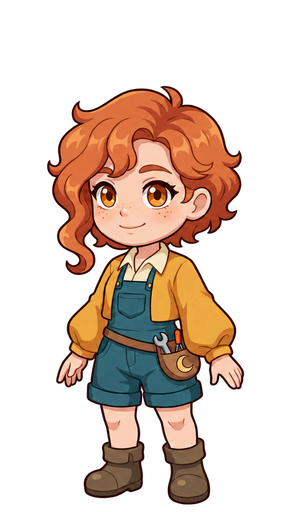
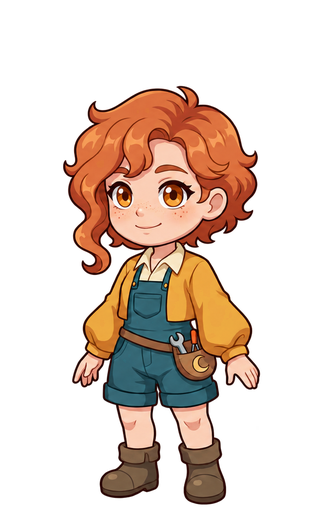
feat(luma): celebrate con le pose intere e fotogramma più largo
Le quattro pose B-celebrate di Codex alla scala della testa originale,
con 17 fotogrammi fra carica, salto, atterraggio e pugno. Il fotogramma
passa a 320x512 perché il salto a braccia aperte entri intero; gli altri
stati sono solo centrati. Pacchetto: 141 celle.

diff --git a/characters-src/People/luma/build.py b/characters-src/People/luma/build.py
@@ -33,10 +33,12 @@ OPEN_X, CLOSED_X = 250, 949
 # Spazio di lavoro in pixel sorgente: margini per salti ed effetti sopra e ai
 # lati. Alla fine viene centrato in FRAMED e ridotto a 8/17, il fotogramma più
 # grande ammesso (512 di altezza); con pixelRatio 7 Luma resta alta come prima.
+# FRAMED è più largo della tela per il salto di celebrate, a braccia e gambe
+# aperte, che si compone direttamente lì (_jump_frame).
 CANVAS = (600, 1080)
 OFFSET = (60, 138)
-FRAMED = (612, 1088)
-TILE = (288, 512)
+FRAMED = (680, 1088)
+TILE = (320, 512)
 COLS = 10
 
 # Punti di riferimento nello spazio di lavoro.
@@ -84,7 +86,7 @@ class Pose:
     mouth: str = ""       # "" (sorriso originale) | small | mid | open | worried | una bocca di EXPRESSIONS
     arm: str = ""          # braccio sinistro: "" | lift (si scosta) | wave0..wave2 (alzato, mano inclinata)
     arm_angle: float = 0.0  # gradi attorno alla spalla
-    hand: str = ""         # braccio destro: "" | chin (mano al mento) | book0..book2 (le due braccia col libro) | pad0..pad2 (blocco e matita) | tool0..tool3 (meccanismo e chiave) | lens0..lens1 (lente) | cheeks0..cheeks1 (mani alle guance)
+    hand: str = ""         # braccio destro: "" | chin (mano al mento) | book0..book2 (le due braccia col libro) | pad0..pad2 (blocco e matita) | tool0..tool3 (meccanismo e chiave) | lens0..lens1 (lente) | cheeks0..cheeks1 (mani alle guance) | jump0..jump3 (pose intere di celebrate)
     fx: tuple = ()        # effetti disegnati sopra: tuple di tuple
 
 
@@ -1028,7 +1030,39 @@ def _effect(img: Image.Image, spec: tuple) -> None:
 
 # ---------------------------------------------------------------- resa
 
+# Festa (celebrate): le quattro pose intere di B-celebrate (carica, salto,
+# atterraggio, pugno con occhiolino), alla scala che porta la loro testa sulla
+# testa originale, coi piedi sulla linea. I fotogrammi intermedi le schiacciano o
+# le allungano ancorate ai piedi (squash) e le alzano (dy). Il salto è più largo
+# della tela: si compone direttamente nel fotogramma.
+JUMP_CELLS = (((99, 102, 450, 721), 1.236, 31), ((531, 12, 1058, 630), 1.22, -86),   # salto: 2,5% più piccolo e centrato, entra nel fotogramma
+              ((1127, 110, 1574, 723), 1.248, -2), ((1637, 33, 2067, 728), 1.2375, -37))
+JUMP_BASE = 927   # piedi nel ritaglio
+
+
+def _jump_frame(p: Pose) -> Image.Image:
+    key = ("jump", p.hand)
+    if key not in _CACHE:
+        box, scale, x = JUMP_CELLS[int(p.hand[-1])]
+        c = Image.open(HERE / "disegni" / "B-celebrate" / "celebrate-4-celle-trasparente.png").convert("RGBA").crop(box)
+        _CACHE[key] = (c.convert("RGBa").resize((round(c.width * scale), round(c.height * scale)), Image.LANCZOS), x)
+    img, x = _CACHE[key]
+    w, h = round(img.width / p.squash ** 0.3), round(img.height * p.squash)   # si allarga meno di quanto si schiaccia
+    if (w, h) != img.size:
+        img = img.resize((w, h), Image.LANCZOS)
+    left, top = (FRAMED[0] - CANVAS[0]) // 2, FRAMED[1] - CANVAS[1]    # dove cade la tela nel fotogramma
+    cx = left + OFFSET[0] + x + _CACHE[key][0].width / 2   # centro della posa a misura piena
+    framed = Image.new("RGBa", FRAMED, (0, 0, 0, 0))
+    framed.paste(img, (round(cx - w / 2), round(top + OFFSET[1] + JUMP_BASE + p.dy - h)), img)
+    framed = framed.convert("RGBA")
+    for kind, fx, fy, *args in p.fx:
+        _effect(framed, (kind, fx + left, fy + top, *args))
+    return framed.resize(TILE, Image.LANCZOS)
+
+
 def render(p: Pose) -> Image.Image:
+    if p.hand.startswith("jump"):
+        return _jump_frame(p)
     img = _with_arm(p) if p.arm else _face(p.eyes, p.mouth).copy()
     if p.hand == "chin":
         img = _with_chin(img, p.eyes)
@@ -1228,18 +1262,16 @@ def done():
 
 
 def celebrate():
-    sparks = (("star", 96, 236, 30, 10), ("star", 506, 170, 38, -12), ("heart", 486, 318, 30))
-    seq = [
-        (Pose(squash=0.94, eyes="closed", mouth="small"), 120),
-        (Pose(squash=1.05, dy=-30, mouth="open"), 80),
-        (Pose(squash=1.02, dy=-56, mouth="open", fx=sparks[:2]), 120),
-        (Pose(squash=1.0, dy=-46, eyes="closed", mouth="open", fx=sparks), 100),
-        (Pose(squash=1.02, dy=-16, eyes="closed", mouth="open", fx=sparks), 70),
-        (Pose(squash=0.95, eyes="closed", mouth="open", fx=sparks), 110),
-        (Pose(eyes="closed", mouth="open", breath=0.5,
-              fx=(("star", 90, 220, 26, 25), ("star", 512, 160, 34, 0), ("heart", 486, 306, 26))), 600),
-    ]
-    return seq, False
+    # carica, slancio, salita, sospensione, discesa, atterraggio e pugno con
+    # occhiolino; stelline e cuore compaiono durante il salto
+    s1, s2, s3 = ("star", 96, 236, 30, 10), ("star", 506, 170, 38, -12), ("heart", 486, 318, 30)
+    steps = ((0, 1.00, 0, (), 70), (0, 0.96, 0, (), 70), (0, 0.92, 0, (), 100), (0, 1.07, 12, (), 50),
+             (1, 1.07, 40, (), 45), (1, 1.04, 78, (s1,), 55), (1, 1.01, 100, (s1,), 70),
+             (1, 0.99, 108, (s1, s2), 140), (1, 1.00, 100, (s1, s2), 60), (1, 1.03, 70, (s1, s2), 50),
+             (1, 1.06, 30, (s1, s2), 45), (2, 0.90, 0, (s1, s2, s3), 70), (2, 0.96, 0, (s1, s2, s3), 70),
+             (2, 1.00, 0, (s1, s2, s3), 90), (3, 1.04, 8, (s1, s2, s3), 70), (3, 0.98, 0, (s1, s2, s3), 70),
+             (3, 1.00, 0, (s1, s2, s3), 900))
+    return [(Pose(hand=f"jump{cell}", squash=sq, dy=-lift, fx=fx), ms) for cell, sq, lift, fx, ms in steps], False
 
 
 def error():

diff --git a/characters-src/People/luma/README.md b/characters-src/People/luma/README.md
@@ -26,9 +26,10 @@ Ci sono solo due disegni, quindi ogni posa deforma quei pixel e aggiunge bocca e
 - **Lente (`look`):** braccio, mano e lente di B-look (`LENS_CELLS`), che combacia col corpo originale quasi senza ritocchi. Della lente si prende il disco dentro l'anello dorato, con l'occhio ingrandito di Codex; l'altro occhio è strizzato con la palpebra chiusa originale (`eyes="wink"`).
 - **Spavento (`error`):** mani alle guance e maniche di B-error (`CHEEK_CELLS`), che combacia col corpo originale. Le mani hanno una sagoma ciascuna (`CHEEK_HANDS`), le maniche si riempiono dal loro colore e tengono il loro contorno fino ai polsini; originali restano viso, colletto e pettorina (`CHEEK_BIB`).
 - **Braccio che si scosta (`talk` e inizio del saluto):** il braccio sinistro originale è ritagliato lungo la sua linea scura interna (`LIFT_ARM`, misurata riga per riga), così si muove intero col suo contorno; dove manica e giacca sono dipinte senza linea fra loro gli si disegna un contorno che sfuma verso la spalla (`LIFT_EDGE`). Sotto, il corpo senza braccia di A1 ridipinge la giacca.
+- **Festa (`celebrate`):** le quattro pose intere di B-celebrate (`JUMP_CELLS`), alla scala che porta la loro testa sulla testa originale, coi piedi sulla linea; il salto è ridotto del 2,5% per entrare nel fotogramma. I 17 fotogrammi nascono schiacciando, allungando (ancorati ai piedi) e alzando le quattro pose.
 - **Effetti:** z, nuvolette del pensiero (sbuffi con ombra e riflesso, la nuvola grande con i puntini), onde, fulmine, punto esclamativo, stelline, cuore e goccia. Sono disegnati a 3x con contorno arrotondato, perlopiù nell'area in alto a destra.
 
-Le pose uguali diventano una sola cella. Lo spazio di lavoro di 600 × 1080 px sorgente viene ridotto a 8/17 nel fotogramma di 288 × 512, il massimo ammesso. Con `pixelRatio` 7 e `scale` 3 Luma è alta circa 189 punti come prima, con margine per salti ed effetti.
+Le pose uguali diventano una sola cella. Lo spazio di lavoro di 600 × 1080 px sorgente viene centrato in 680 × 1088 e ridotto a 8/17 nel fotogramma di 320 × 512 (512 è il massimo ammesso in altezza); la larghezza in più serve al salto di `celebrate`, composto direttamente nel fotogramma. Con `pixelRatio` 7 e `scale` 3 Luma è alta circa 189 punti come prima, con margine per salti ed effetti.
 
 Prompt di estrazione dello sfondo (imagegen integrato):
 

diff --git a/characters/People/luma/README.md b/characters/People/luma/README.md
@@ -14,14 +14,14 @@ Tutti i quindici stati, ricavati dai due disegni approvati e dalle espressioni d
 | `running` | Saltelli con fulmine che lampeggia. |
 | `waiting` | Ti saluta: il braccio si alza dal fianco e la mano saluta con tre inclinazioni, con un dondolio e un battito, poi riscende. |
 | `done` | Occhi felici, sorriso aperto, dondolio e stelline. |
-| `celebrate` | Accovacciata, salto, atterraggio, posa felice con stelline e cuore (non in loop). |
+| `celebrate` | Si carica, salta a braccia e gambe aperte, atterra e chiude col pugno alzato e l'occhiolino, tra stelline e cuore (una volta sola). |
 | `error` | Si porta le mani alle guance a bocca aperta, sobbalza tremando mentre una goccia di sudore scende, poi sbatte le ciglia. |
 | `talk` | Parla con le vocali disegnate e piccoli cenni del capo; sulle parole centrali la mano si scosta dal fianco come chi spiega. |
 | `look` | Tiene una lente davanti a un occhio, con l'occhio ingrandito, e strizza l'altro; la sposta appena e fa una piccola «o» di stupore. |
 | `drag` | Sollevata e sorpresa, oscilla come un pendolo con le gambe che penzolano. |
 
-- Formato `mascotte-pack/1`, PNG trasparente, fotogrammi 288 × 512, 104 celle.
-- Grandezza iniziale circa 123 × 219 punti (`scale: 3`, `pixelRatio: 7`). La figura è alta circa 189 punti; lo spazio in più serve a salti ed effetti e resta trasparente ai clic.
+- Formato `mascotte-pack/1`, PNG trasparente, fotogrammi 320 × 512, 141 celle.
+- Grandezza iniziale circa 137 × 219 punti (`scale: 3`, `pixelRatio: 7`). La figura è alta circa 189 punti; lo spazio in più serve a salti ed effetti e resta trasparente ai clic.
 
 Nell'app: **Personaggio → People → Luma**. Puoi anche importare la cartella da **Impostazioni → Mascotte → Aggiungi mascotte…**, se Luma non è già inclusa nella build. Nel visore si può trascinare direttamente questa cartella.
 
